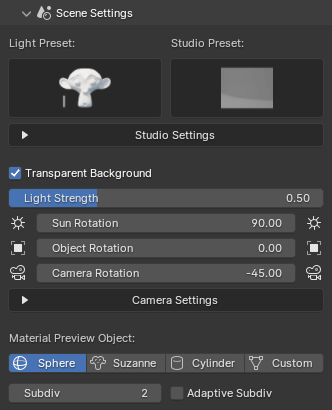
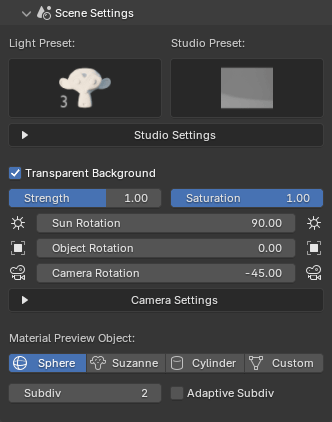
misc

diff --git a/docs/rendering_asset_previews.md b/docs/rendering_asset_previews.md
@@ -26,7 +26,7 @@ When rendering via the Asset Browser, you can work with both internal and extern
 4. Configure the scene and render settings as needed.
 5. Click on `Render selected Assets` and BatchGenie will render all selected Assets.
 
-![Asset Browser Render](images/render_asset_previews-render_from_asset_browser.gif){ .img-box }
+![Asset Browser Render](images/render_asset_previews_render_from_asset_browser.gif){ .img-box }
 
 
 ## Settings
@@ -99,11 +99,19 @@ You can access the settings through both the BatchGenie panel and the BatchGenie
 - **Light Preset**: Choose from a selection of different lighting presets to enhance your renders. Options include various sky setups as well as Blender's built-in HDRIs. There is also a 'Custom World' option that utilizes your scene's current 'World' for lighting, allowing you to use your own HDR images.
 
     ??? abstract "Light Presets Example"
-        ![Light Presets](images/render_asset_previews-lighting_presets.png){ .img-box .on-glb }
+        This popup is shown when clicking on the Light Preset icon.
+
+        ![Light Presets](images/render_asset_previews_lighting_presets.png){ .img-box .on-glb }
 
 - **Studio Preset**: Allows you to add a studio backdrop as a background if desired.
 
+    ??? abstract "Studio Presets Example"
+        This popup is shown when clicking on the Studio Preset icon.
+
+        ![Studio Presets](images/render_asset_previews_studio_presets.png){ .img-box .on-glb }
+
     ??? info2 "Studio Settings"
+        When you select a Studio Preset, the following settings are available:
 
         ![Studio Settings](images/render_asset_previews_studio_settings.png){ .img-box }
 
@@ -117,7 +125,8 @@ You can access the settings through both the BatchGenie panel and the BatchGenie
 
 <div style="clear:both"></div>
 
-- **Light Strength**: Adjusts the strength of the world background.
+- **Strength**: Adjusts the light strength of the world background.
+- **Saturation**: Adjusts the saturation of the world background. This setting is useful when you want to use an HDR image for lighting your scene but don't want the colors of the HDR to influence the colors in your final render. By adjusting the saturation, you can desaturate the HDR image, allowing you to retain the lighting effects without the HDR's color affecting your scene's appearance.
 
 - **Rotation**:
     - **Sun Rotation**: Adjusts the horizontal angle of the sunlight in your scene or rotates the HDRI background for lighting. This changes the direction from which light illuminates objects.
@@ -133,7 +142,7 @@ You can access the settings through both the BatchGenie panel and the BatchGenie
     - **Vertical Angle**: Adjusts the vertical angle of the camera, moving it up or down to change the perspective from which the scene is viewed, either looking up or down.
 
         ??? abstract "Vertical Angle Example"
-            ![Camera Angle Example](images/render_asset_previews-camera_angle_example.png){ .img-box }
+            ![Camera Angle Example](images/render_asset_previews_camera_angle_example.png){ .img-box }
 
     - **Zoom**: Adjust the camera distance from the object. Zoom in for a close-up view or zoom out to add space around your object.
     - **Focal Length**: Adjusts the focal length of the camera, affecting the field of view and perspective. A shorter focal length increases the field of view, creating a wide-angle effect, while a longer focal length decreases the field of view, producing a zoomed-in effect.
@@ -143,7 +152,7 @@ You can access the settings through both the BatchGenie panel and the BatchGenie
     - **Exposure**:  Adjusts the overall brightness of your scene by controlling the amount of light that reaches the camera, effectively brightening or darkening the rendered image.
 
         ??? abstract "Exposure Example"
-            ![Exposure Example](images/render_asset_previews-exposure_example.png){ .img-box }
+            ![Exposure Example](images/render_asset_previews_exposure_example.png){ .img-box }
 
     - **Override camera orientation with**: Lets you use a custom camera angle. Choose between:
 
